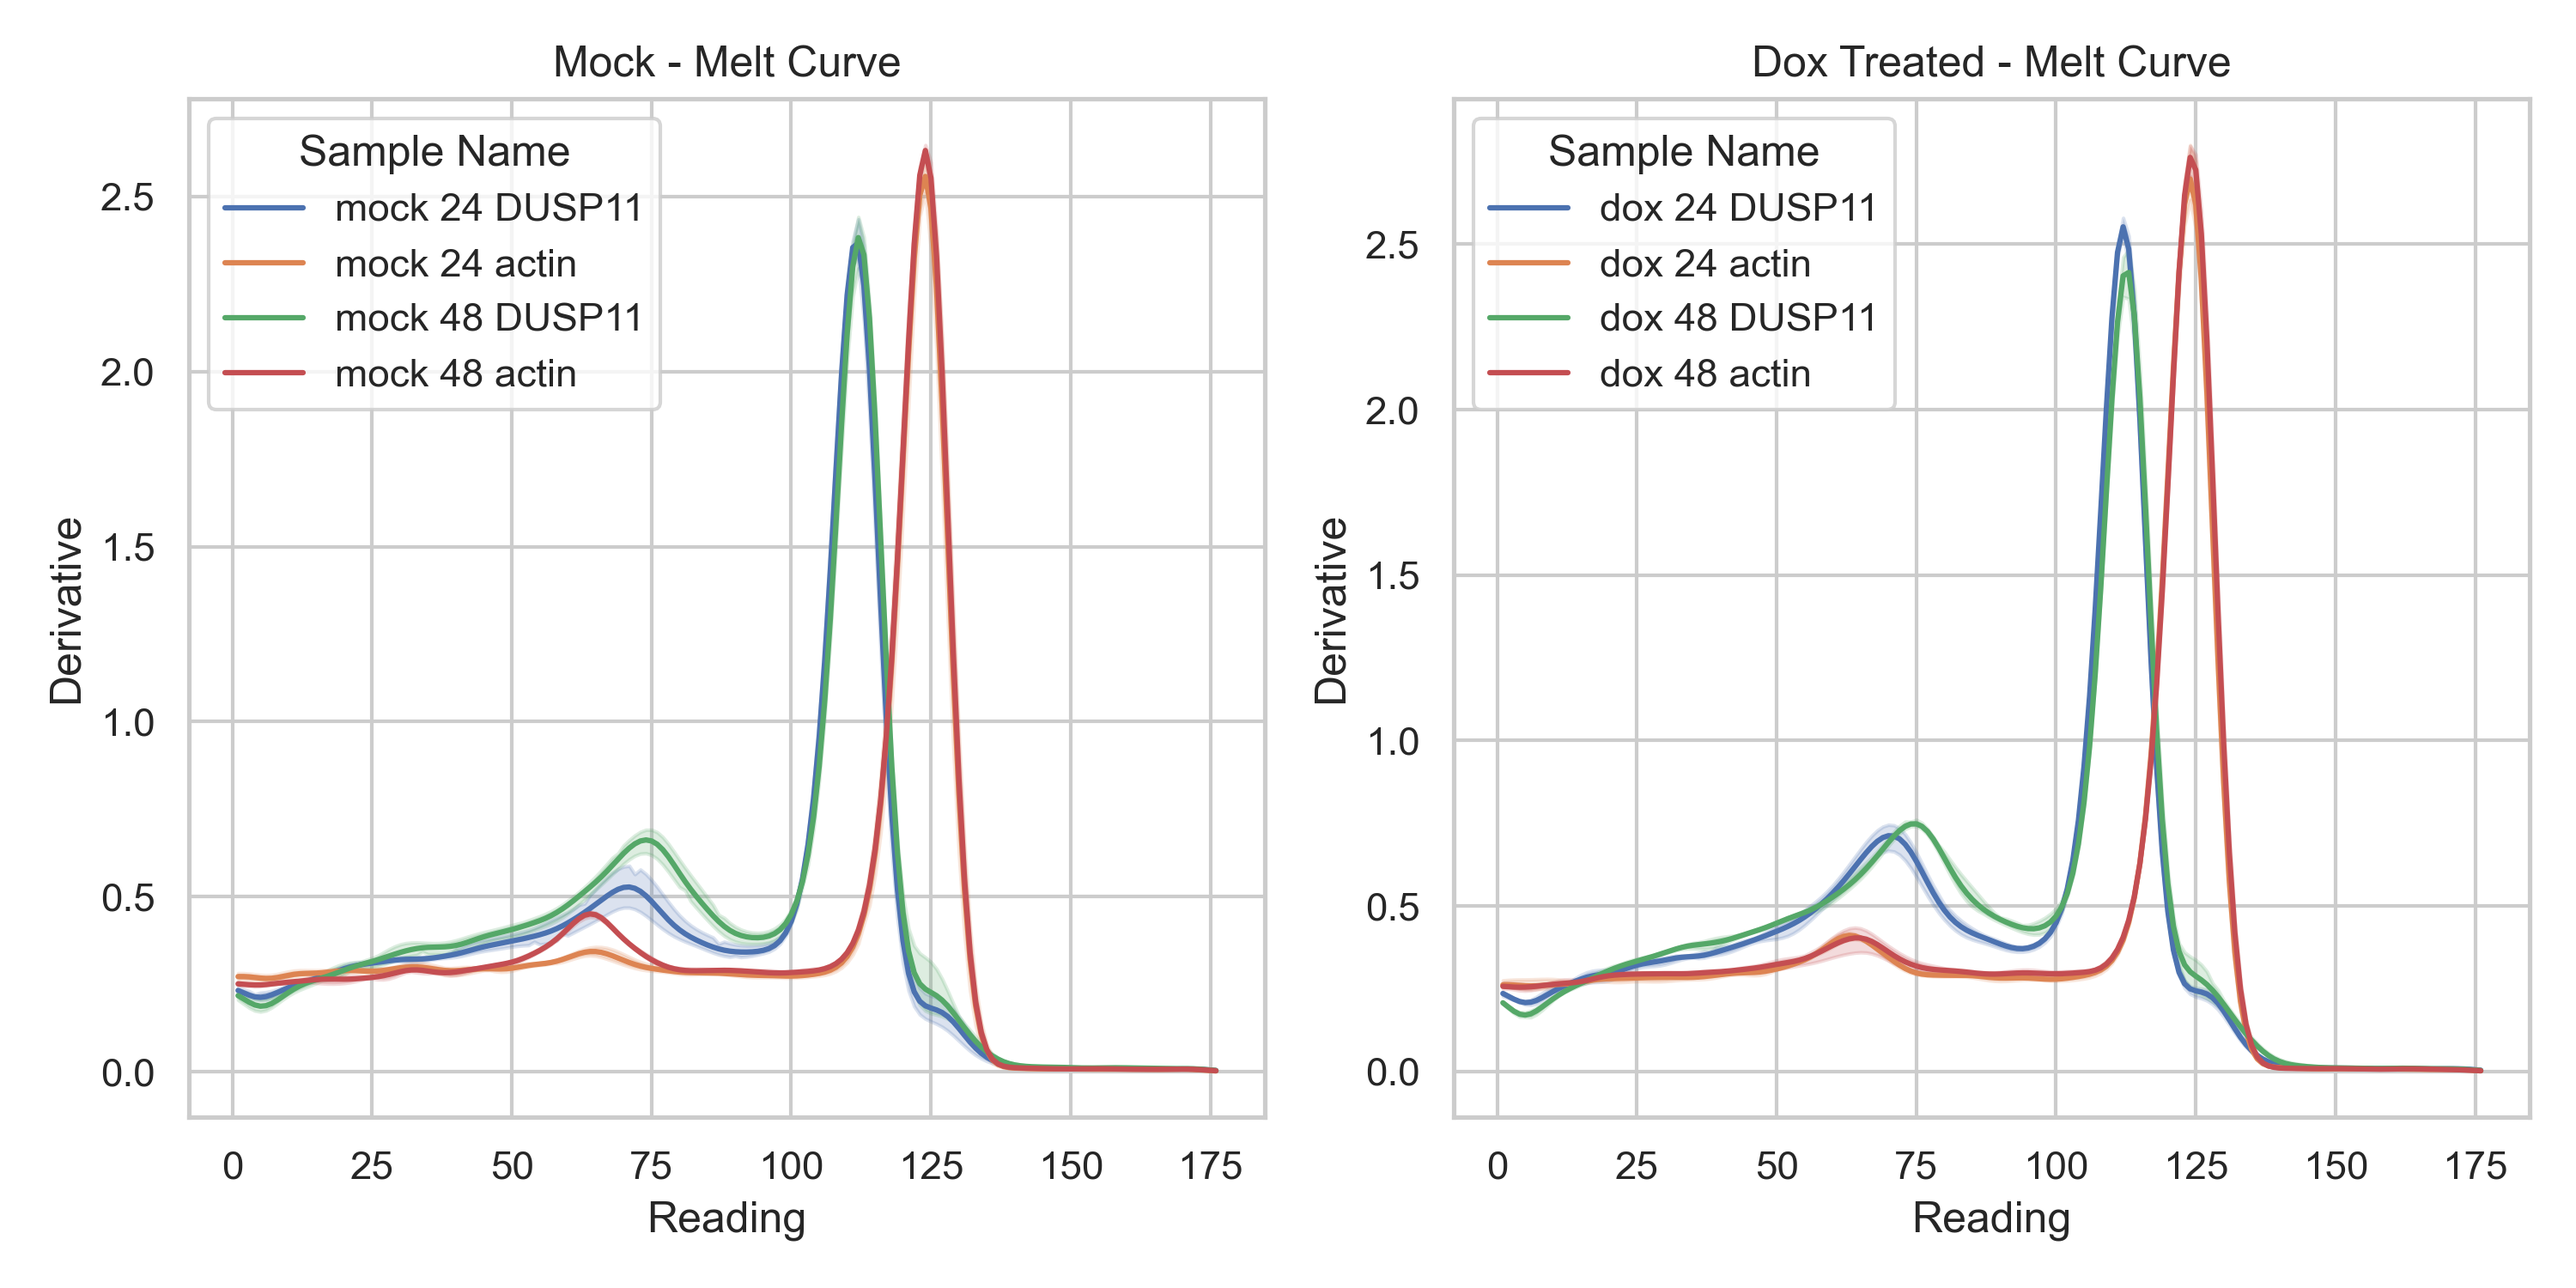
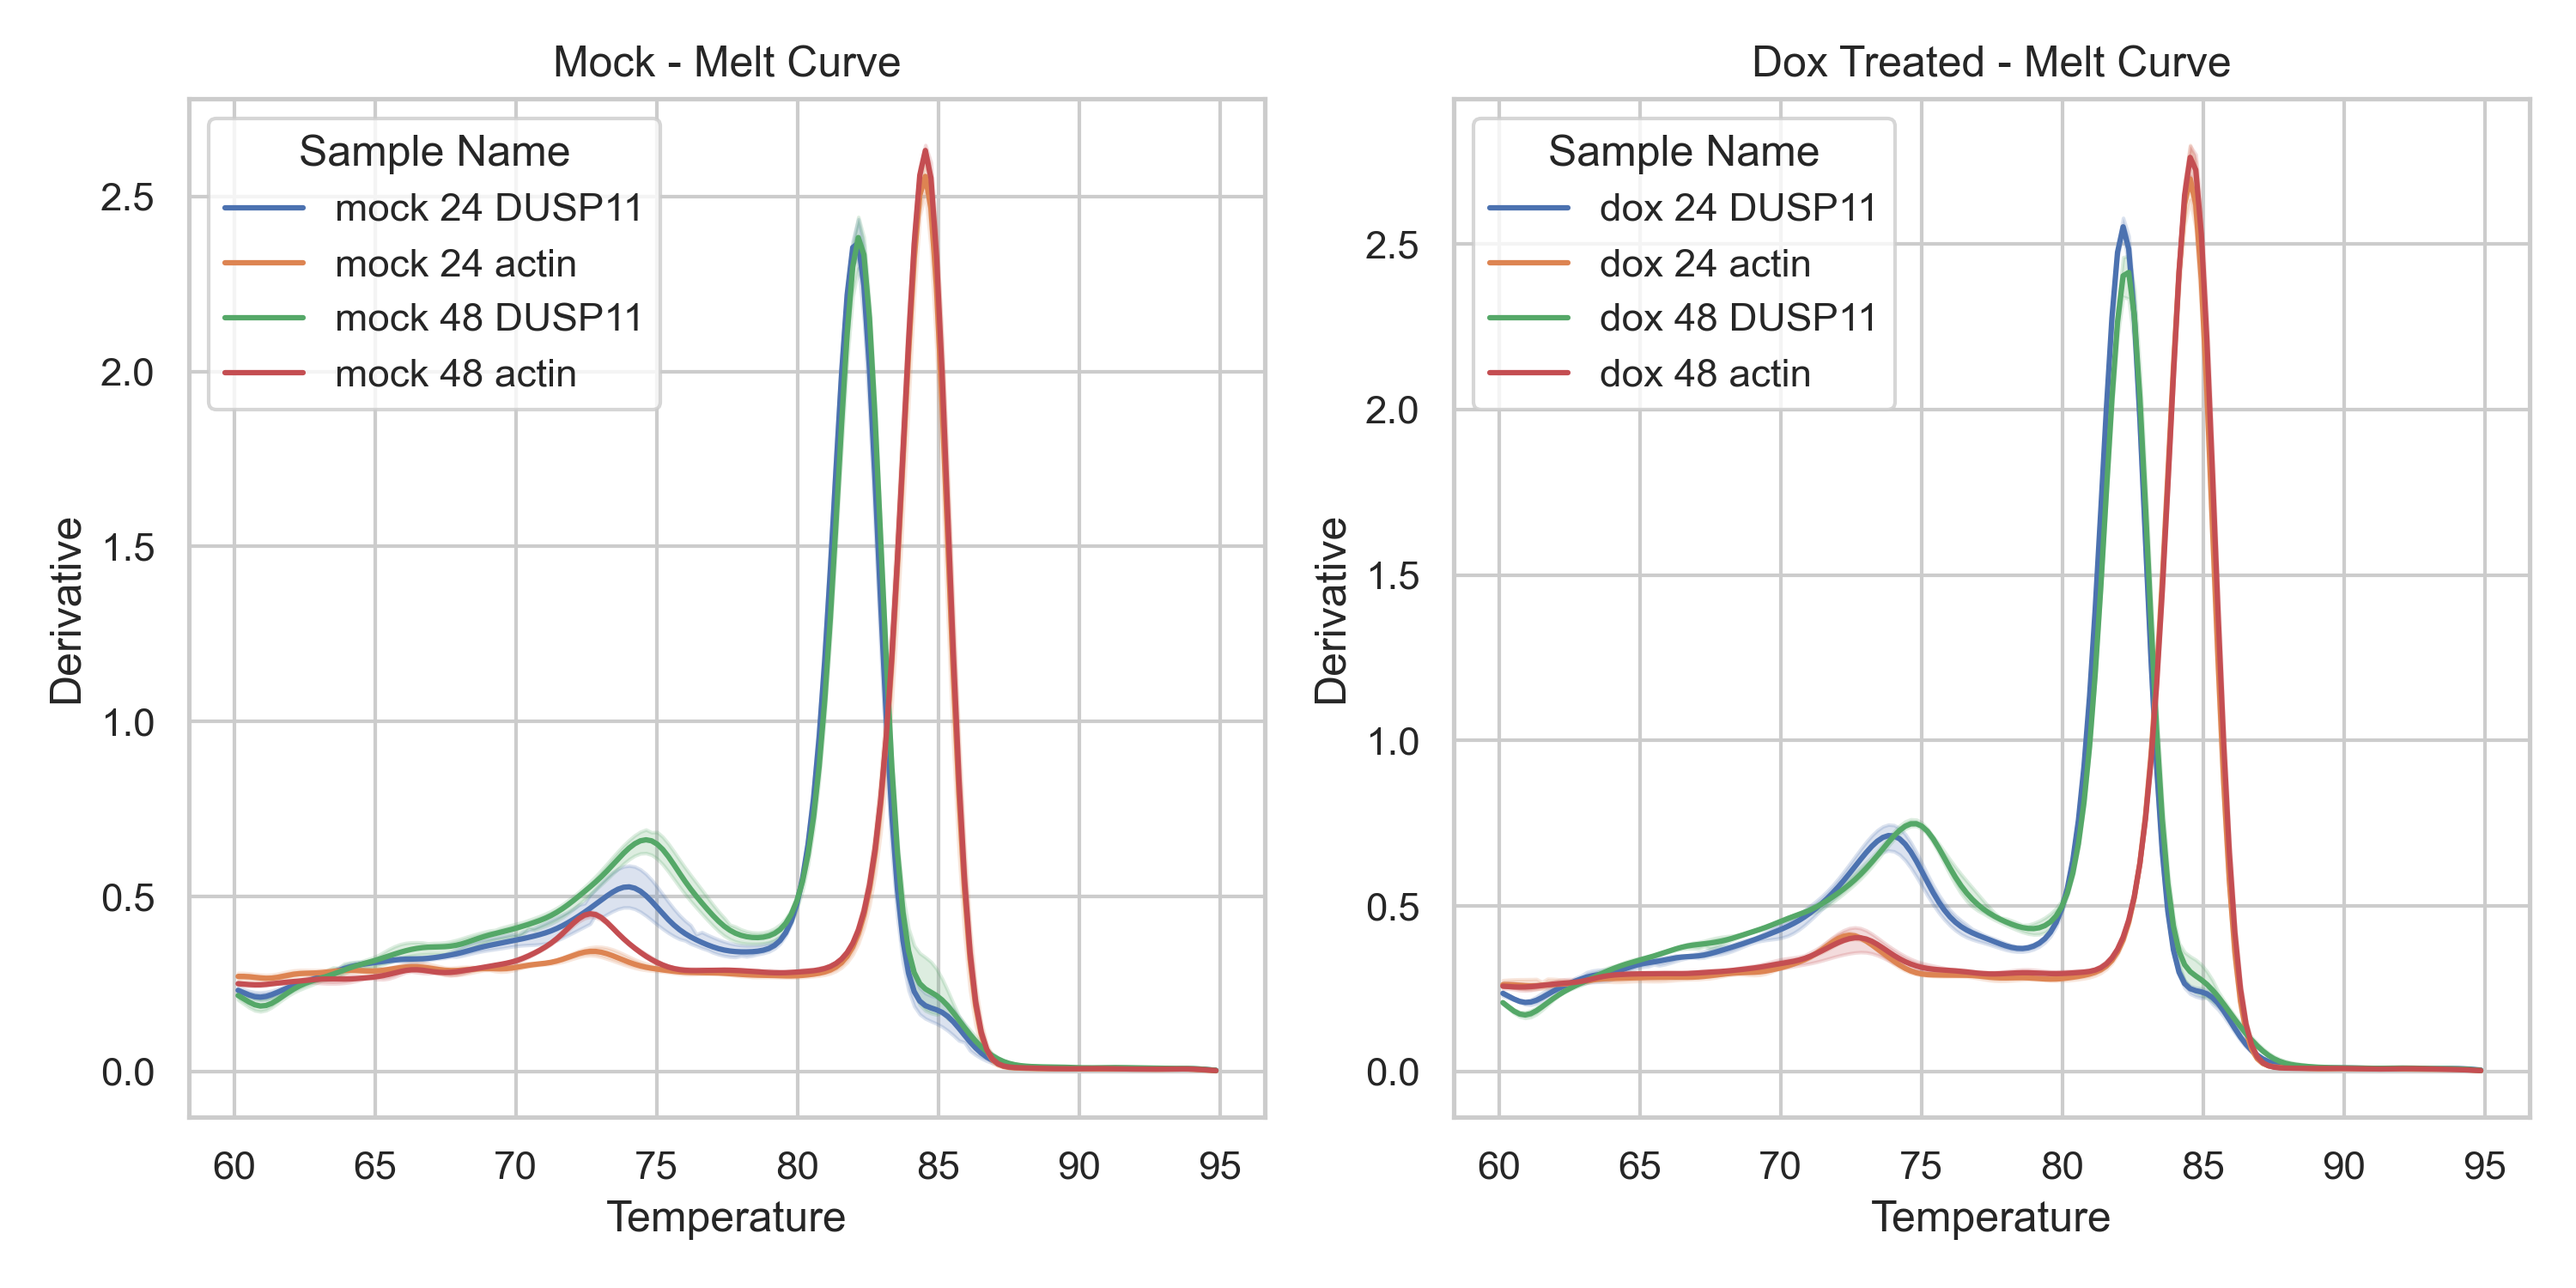
Change x-axis to temperature

diff --git a/TN031/TN031.9.py b/TN031/TN031.9.py
@@ -13,8 +13,7 @@ def import_file(filename):
             skiprows=46,
             usecols=["Sample Name", "Target Name", "CT"],
             na_values="Undetermined",
-        )
-        .dropna()
+        ).dropna()
         # .groupby(by=["Sample Name", "Target Name"])
         # .mean()
         # .reset_index()
@@ -63,8 +62,8 @@ dCT_mock["mock 48"] = mock_dusp11_48["CT"].sub(mock_actin_48["CT"])
 dCT_dox["dox 48"] = dox_dusp11_48["CT"].sub(dox_actin_48["CT"])
 
 ddCT = pd.DataFrame()
-ddCT['24 ddCT'] = dCT_dox['dox 24'].sub(dCT_mock['mock 24'])
-ddCT['48 ddCT'] = dCT_dox['dox 48'].sub(dCT_mock['mock 48'])
+ddCT["24 ddCT"] = dCT_dox["dox 24"].sub(dCT_mock["mock 24"])
+ddCT["48 ddCT"] = dCT_dox["dox 48"].sub(dCT_mock["mock 48"])
 
 ddCT_foldchange = pd.DataFrame()
 ddCT_foldchange["24"] = np.power(2, -(ddCT["24 ddCT"]))
@@ -73,6 +72,7 @@ ddCT_foldchange["48"] = np.power(2, -(ddCT["48 ddCT"]))
 # Save final table to an excel file
 output = pd.concat([ddCT, ddCT_foldchange], axis=1)
 output.to_excel("TN031.9 ddCT.xlsx")
+
 
 # Plot foldchange
 def plot_foldchange(df, title):
@@ -85,38 +85,43 @@ def plot_foldchange(df, title):
     ax.set_ylabel("Foldchange")
     plt.savefig(f"TN031.9 {title}.png", dpi=300)
 
+
 plot_foldchange(ddCT_foldchange, "DUSP11 Foldchange during CRISPRi induction")
 
 # Import melt-curve data
 
-melt_curve = pd.read_excel("TN031_9.xlsx", sheet_name="Melt Curve Raw Data", skiprows=46)
+melt_curve = pd.read_excel(
+    "TN031_9.xlsx", sheet_name="Melt Curve Raw Data", skiprows=46
+)
 # Make dictionary to rename columns
 rename = {
-    "A1":"mock 24 DUSP11",
-    "A2":"mock 24 DUSP11",
-    "A3":"mock 24 DUSP11",
-    "A4":"mock 24 actin",
-    "A5":"mock 24 actin",
-    "A6":"mock 24 actin",
-    "B1":"mock 48 DUSP11",
-    "B2":"mock 48 DUSP11",
-    "B3":"mock 48 DUSP11",
-    "B4":"mock 48 actin",
-    "B5":"mock 48 actin",
-    "B6":"mock 48 actin",
-    "C1":"dox 24 DUSP11",
-    "C2":"dox 24 DUSP11",
-    "C3":"dox 24 DUSP11",
-    "C4":"dox 24 actin",
-    "C5":"dox 24 actin",
-    "C6":"dox 24 actin",
-    "D1":"dox 48 DUSP11",
-    "D2":"dox 48 DUSP11",
-    "D3":"dox 48 DUSP11",
-    "D4":"dox 48 actin",
-    "D5":"dox 48 actin",
-    "D6":"dox 48 actin",
-    }
+    "A1": "mock 24 DUSP11",
+    "A2": "mock 24 DUSP11",
+    "A3": "mock 24 DUSP11",
+    "A4": "mock 24 actin",
+    "A5": "mock 24 actin",
+    "A6": "mock 24 actin",
+    "B1": "mock 48 DUSP11",
+    "B2": "mock 48 DUSP11",
+    "B3": "mock 48 DUSP11",
+    "B4": "mock 48 actin",
+    "B5": "mock 48 actin",
+    "B6": "mock 48 actin",
+    "C1": "dox 24 DUSP11",
+    "C2": "dox 24 DUSP11",
+    "C3": "dox 24 DUSP11",
+    "C4": "dox 24 actin",
+    "C5": "dox 24 actin",
+    "C6": "dox 24 actin",
+    "D1": "dox 48 DUSP11",
+    "D2": "dox 48 DUSP11",
+    "D3": "dox 48 DUSP11",
+    "D4": "dox 48 actin",
+    "D5": "dox 48 actin",
+    "D6": "dox 48 actin",
+}
+
+
 # Rename columns
 def rename_columns(df, rename):
     """Rename columns."""
@@ -124,7 +129,9 @@ def rename_columns(df, rename):
     df = df.dropna()
     return df
 
+
 melt_curve = rename_columns(melt_curve, rename)
+
 
 # Plot melt curve
 def plot_melt_curve(df, title):
@@ -135,15 +142,20 @@ def plot_melt_curve(df, title):
     # Combine mock and dox plots into one figure of separate plots
     plt.figure(figsize=(10, 5))
     plt.subplot(1, 2, 1)
-    g_mock = sns.lineplot(data=df_mock, x="Reading", y="Derivative", hue="Sample Name")
+    g_mock = sns.lineplot(
+        data=df_mock, x="Temperature", y="Derivative", hue="Sample Name"
+    )
     g_mock.set_title(f"Mock - {title}")
-    g_mock.set(xlabel="Reading", ylabel="Derivative")
+    g_mock.set(xlabel="Temperature", ylabel="Derivative")
     plt.subplot(1, 2, 2)
-    g_dox = sns.lineplot(data=df_dox, x="Reading", y="Derivative", hue="Sample Name")
+    g_dox = sns.lineplot(
+        data=df_dox, x="Temperature", y="Derivative", hue="Sample Name"
+    )
     g_dox.set_title(f"Dox Treated - {title}")
-    g_dox.set(xlabel="Reading", ylabel="Derivative")
+    g_dox.set(xlabel="Temperature", ylabel="Derivative")
 
     plt.tight_layout()
     plt.savefig(f"TN031.9 Combined - {title}.png", dpi=300)
+
 
 plot_melt_curve(melt_curve, "Melt Curve")
